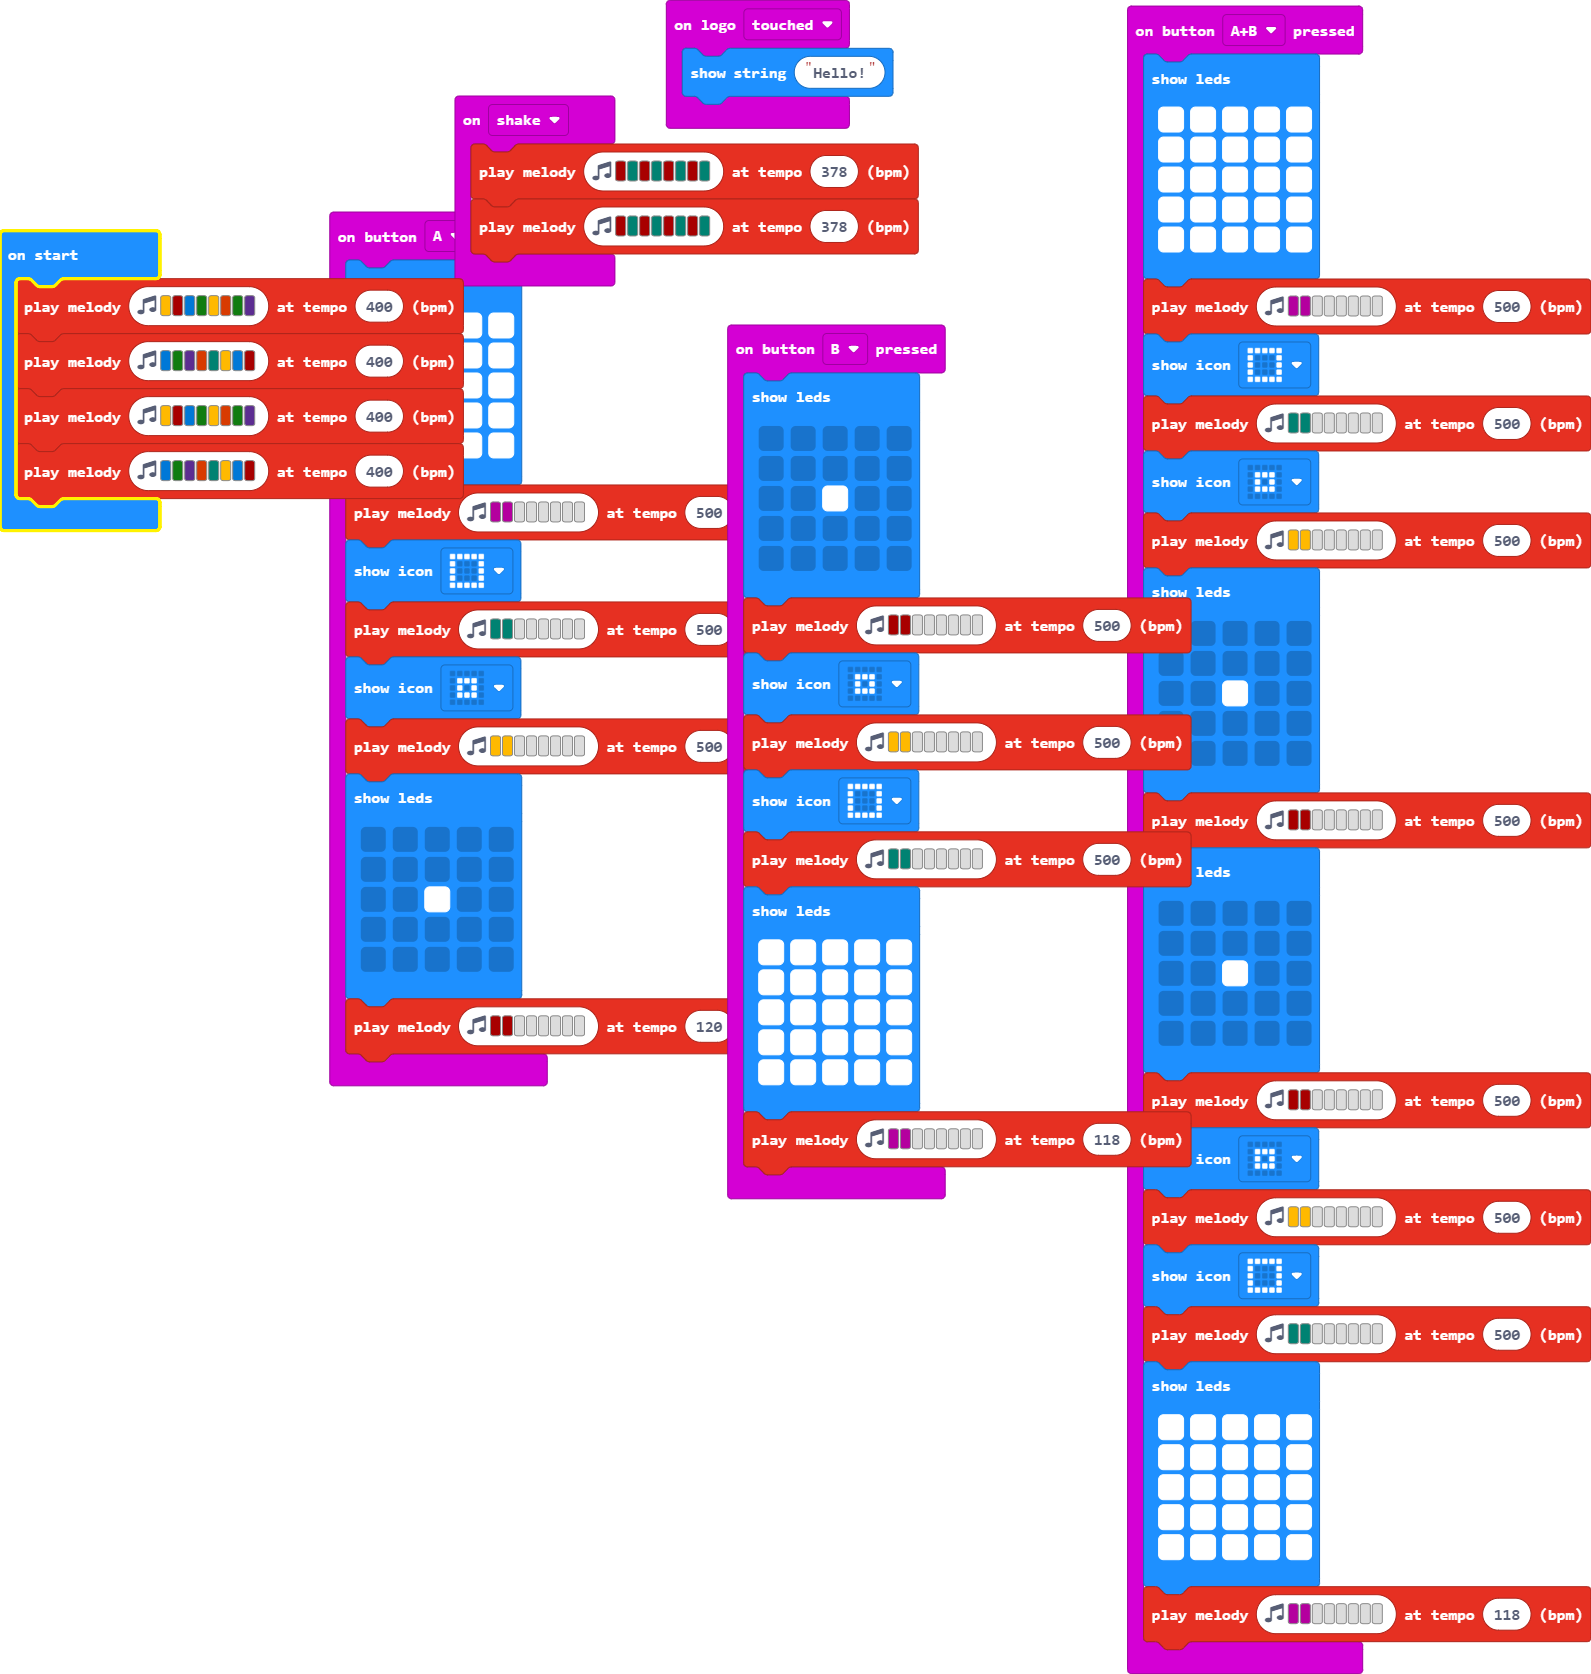
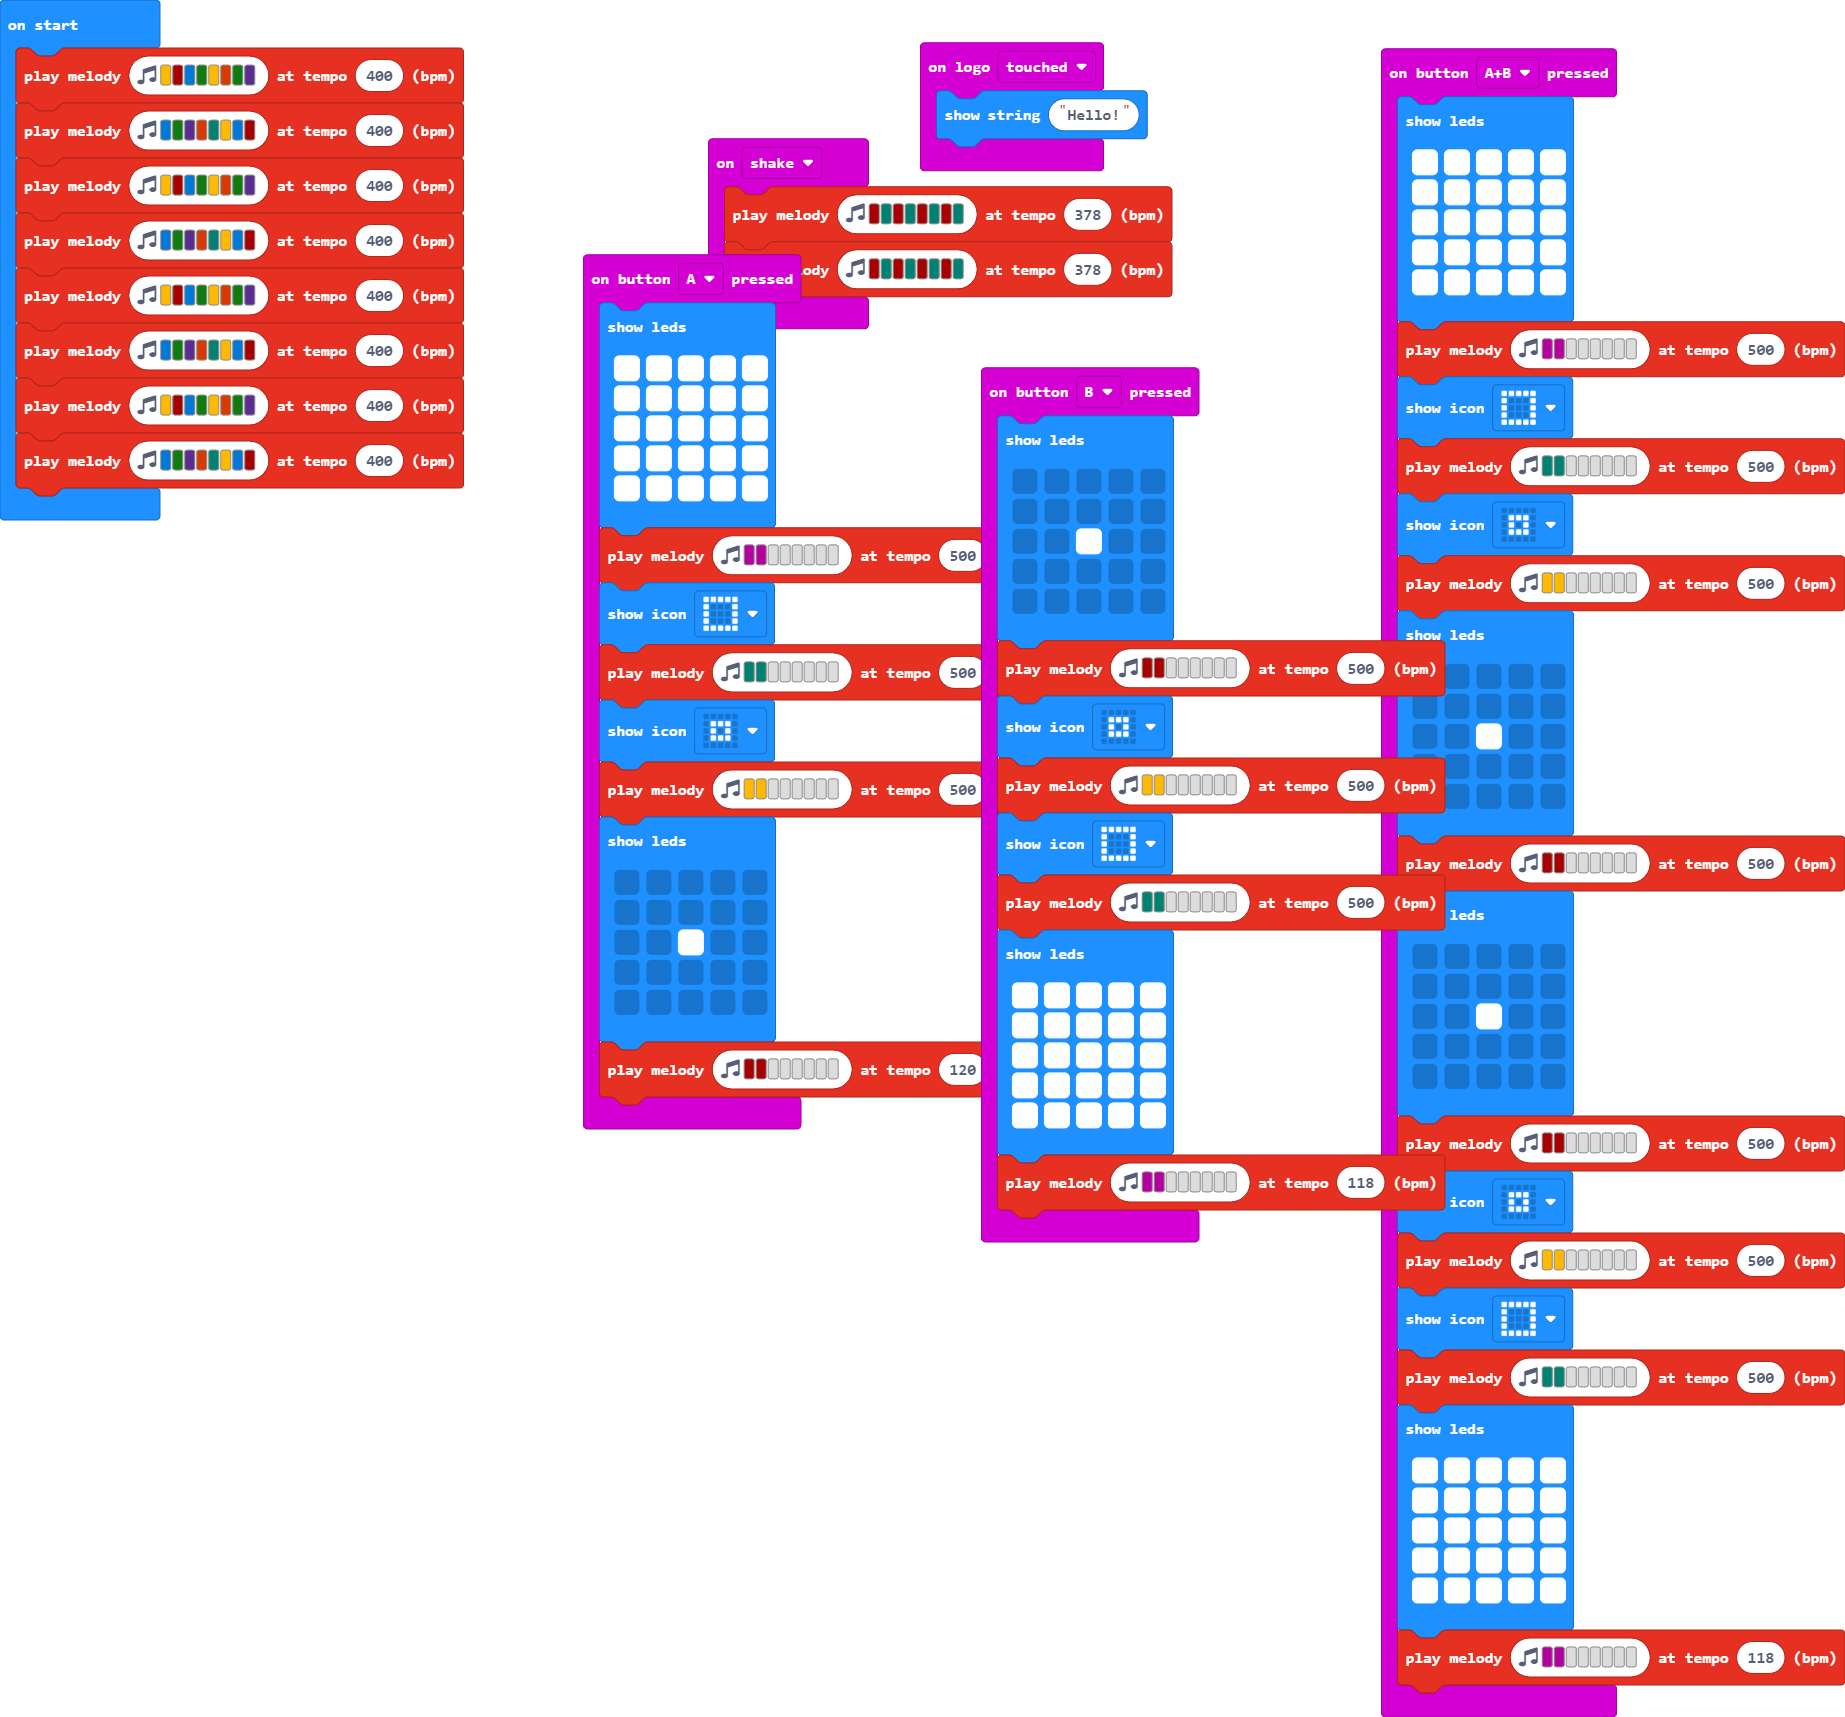
Update main.blocks, main.ts

diff --git a/main.ts b/main.ts
@@ -95,3 +95,7 @@ music.playMelody("A C5 E G A B G D ", 400)
 music.playMelody("E G D B F A E C5 ", 400)
 music.playMelody("A C5 E G A B G D ", 400)
 music.playMelody("E G D B F A E C5 ", 400)
+music.playMelody("A C5 E G A B G D ", 400)
+music.playMelody("E G D B F A E C5 ", 400)
+music.playMelody("A C5 E G A B G D ", 400)
+music.playMelody("E G D B F A E C5 ", 400)
